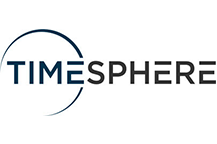
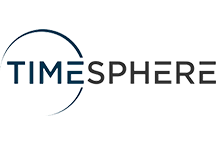
Update aux partenaires
- Logo transparent pour timesphere
- Ajout de ConformIT comme partenaire étudiant

diff --git a/index.html b/index.html
@@ -788,6 +788,11 @@
               <img src="img/partenaires/devicom.png" class="img-fluid" alt="Devicom">
             </div>
           </div>
+          <div class="col-lg-3 col-md-4 col-xs-6">
+            <div class="supporter-logo">
+              <img src="img/partenaires/conformit.png" class="img-fluid" alt="ConformIT">
+            </div>
+          </div>
 
         </div>
 
